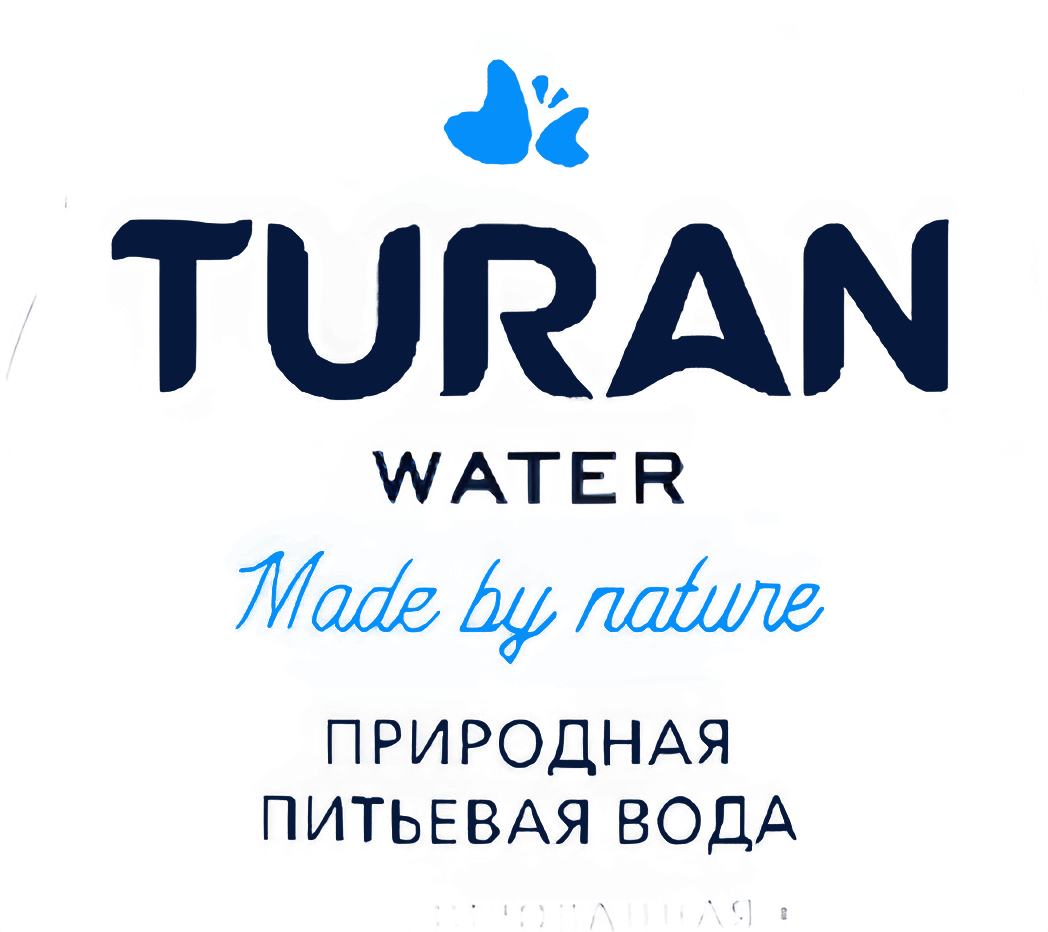
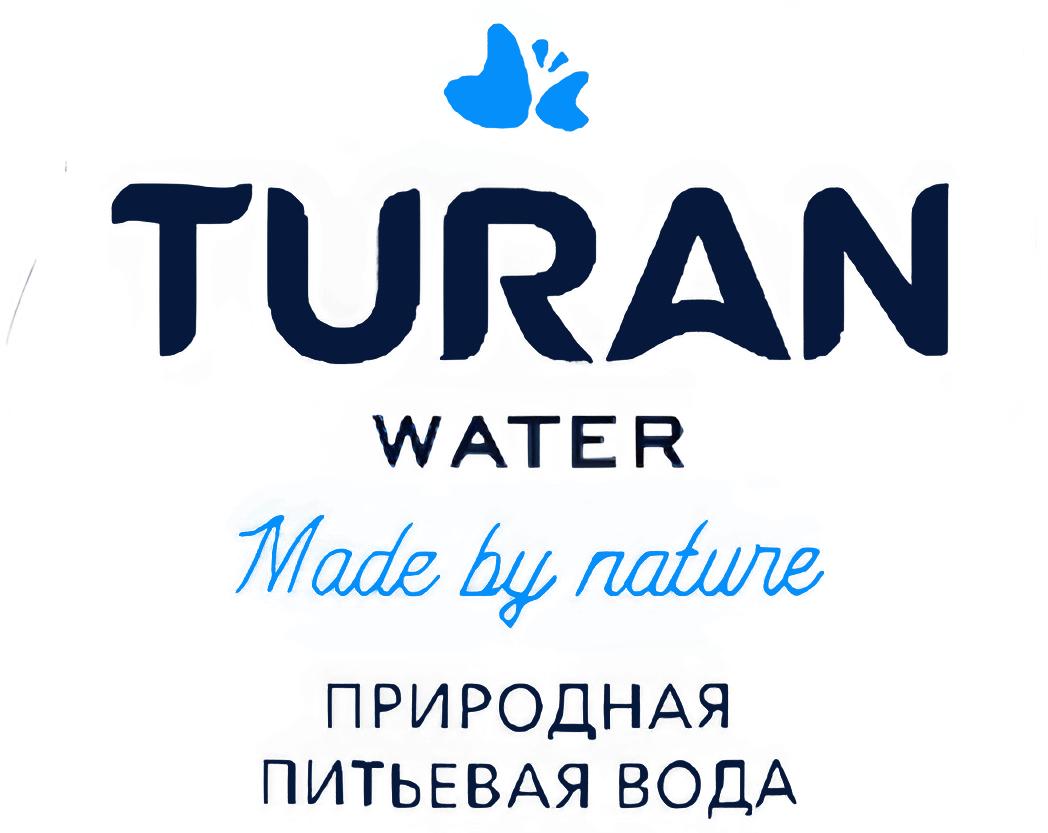
туран лого в природной

diff --git a/app/components/sections/nature.tsx b/app/components/sections/nature.tsx
@@ -80,7 +80,7 @@ export default function NatureSection({ scrollYProgress }: NatureSectionProps) {
             alt="Turan Water"
             width={100}
             height={100}
-            className="mb-4 h-44 w-44 xl:w-72 xl:h-72 1xl:h-44 1xl:w-44 2xl:h-64 2xl:w-64 object-cover shadow-lg"
+            className="mb-4 h-44 w-44 xl:w-72 xl:h-72 1xl:h-44 1xl:w-44 2xl:h-64 2xl:w-64 object-cover w-[clamp(80px,22vw,288px)] "
             priority
             unoptimized
           />
